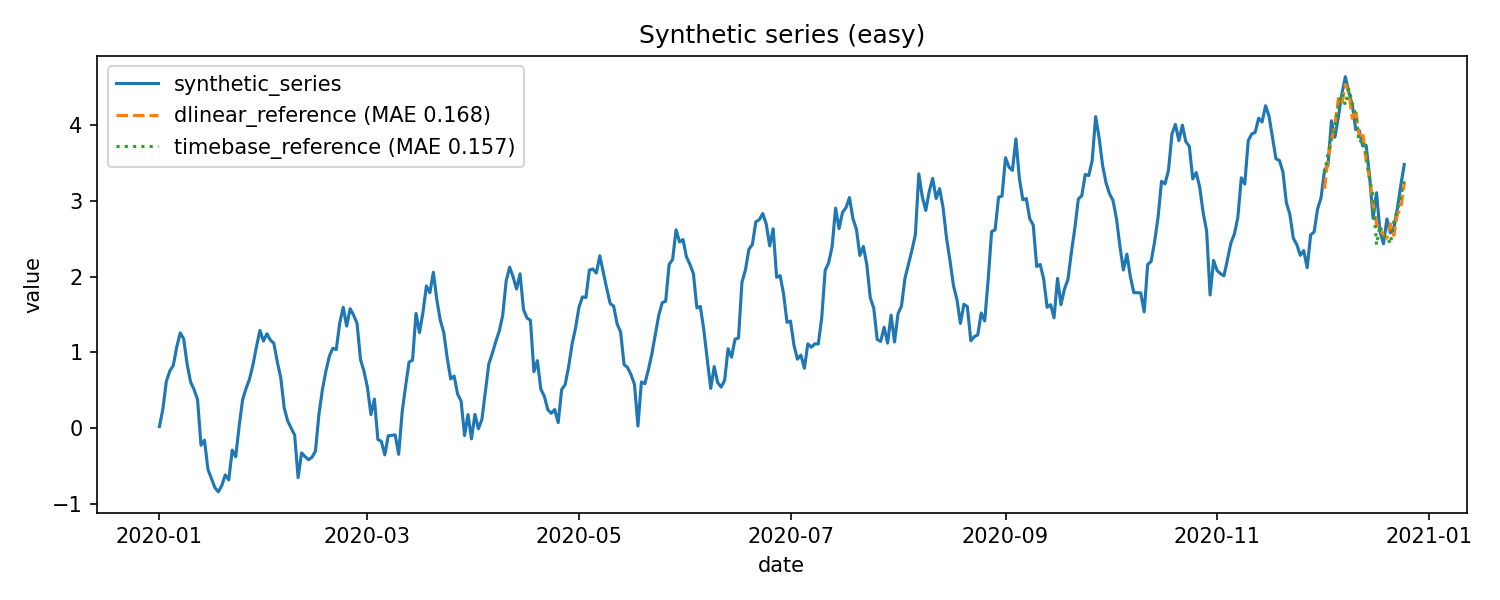
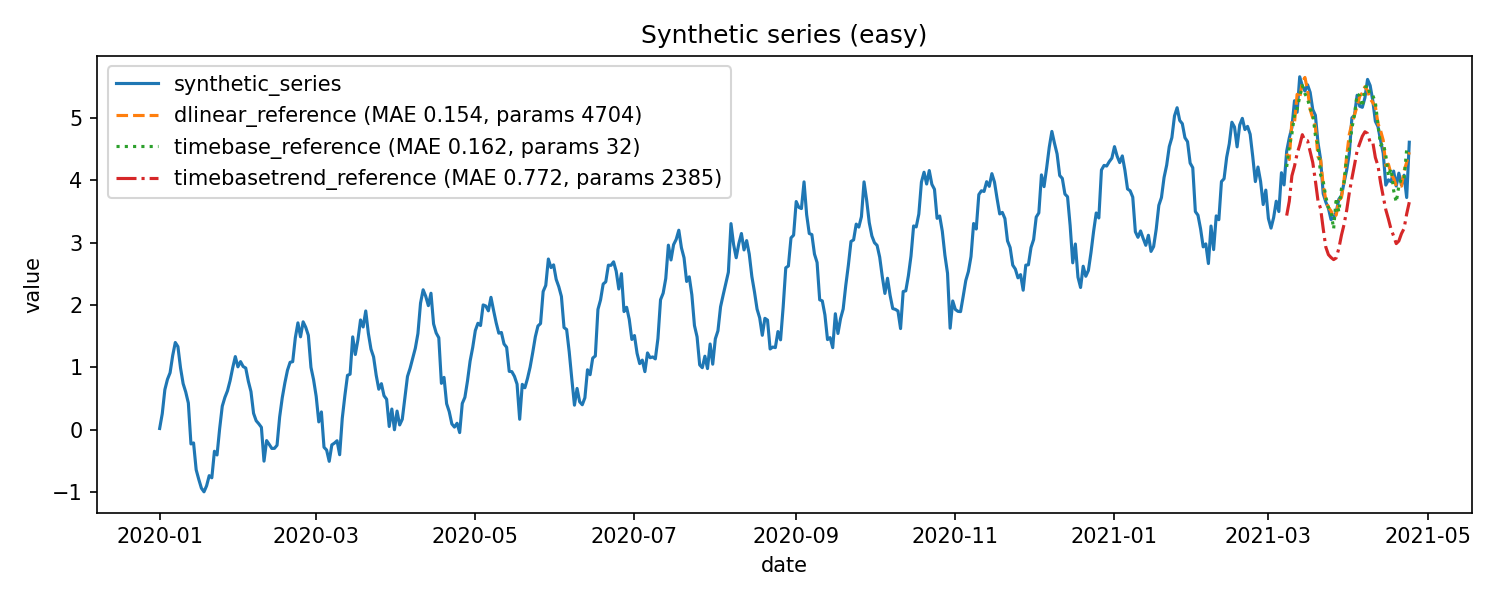
feat(plots): add TimeBaseTrend overlay and params to legend, increase difficulty

diff --git a/scripts/generate_synthetic_plot.py b/scripts/generate_synthetic_plot.py
@@ -9,13 +9,14 @@ from pathlib import Path
 import matplotlib
 import matplotlib.pyplot as plt
 import numpy as np
+import torch
 import typer
 from neuralforecast import NeuralForecast
 from neuralforecast.models import DLinear
 from rich.console import Console
 
 from tests.utils.synthetic_series import make_synthetic_series
-from timebaseula.models.timebase import TimeBase
+from timebaseula.models.timebase import TimeBase, TimeBaseTrend
 
 app = typer.Typer(help="Generate a synthetic series plot for documentation.")
 console = Console()
@@ -38,6 +39,11 @@ def configure_logging() -> logging.Logger:
     handler.setFormatter(formatter)
     logger.addHandler(handler)
     return logger
+
+
+def count_parameters(model: torch.nn.Module) -> int:
+    """Count the number of trainable parameters in a model."""
+    return sum(p.numel() for p in model.parameters() if p.requires_grad)
 
 
 @app.command()
@@ -79,6 +85,10 @@ def main(
         True,
         help="Overlay a TimeBase reference forecast.",
     ),
+    include_timebase_trend: bool = typer.Option(
+        True,
+        help="Overlay a TimeBaseTrend reference forecast.",
+    ),
 ) -> None:
     """Generate and save a synthetic series plot."""
     logger = configure_logging()
@@ -102,7 +112,9 @@ def main(
     output.parent.mkdir(parents=True, exist_ok=True)
 
     forecast_frame = None
-    if (include_reference or include_timebase) and length > forecast_horizon:
+    if (
+        include_reference or include_timebase or include_timebase_trend
+    ) and length > forecast_horizon:
         input_size = min(48, length - forecast_horizon)
         models = []
         if include_reference:
@@ -125,6 +137,18 @@ def main(
                     learning_rate=1e-2,
                 )
             )
+        if include_timebase_trend:
+            models.append(
+                TimeBaseTrend(
+                    h=forecast_horizon,
+                    input_size=input_size,
+                    period_len=24,
+                    basis_num=6,
+                    moving_avg_window=25,
+                    max_steps=200,
+                    learning_rate=1e-2,
+                )
+            )
         nf = NeuralForecast(models=models, freq="D")
         train_frame = frame.iloc[:-forecast_horizon]
         nf.fit(train_frame, val_size=forecast_horizon)
@@ -139,10 +163,13 @@ def main(
             dlinear_mae = float(
                 np.mean(np.abs(target["y"] - dlinear_pred.loc[target.index]))
             )
+            dlinear_params = sum(
+                p.numel() for p in nf.models[0].parameters() if p.requires_grad
+            )
             plt.plot(
                 forecast_frame["ds"],
                 forecast_frame["DLinear"],
-                label=f"dlinear_reference (MAE {dlinear_mae:.3f})",
+                label=f"dlinear (MAE {dlinear_mae:.3f}, {dlinear_params} params)",
                 linestyle="--",
             )
         if "TimeBase" in forecast_frame.columns:
@@ -150,11 +177,47 @@ def main(
             timebase_mae = float(
                 np.mean(np.abs(target["y"] - timebase_pred.loc[target.index]))
             )
+            # Find TimeBase model index
+            timebase_idx = 1 if "DLinear" in forecast_frame.columns else 0
+            timebase_params = sum(
+                p.numel()
+                for p in nf.models[timebase_idx].parameters()
+                if p.requires_grad
+            )
             plt.plot(
                 forecast_frame["ds"],
                 forecast_frame["TimeBase"],
-                label=f"timebase_reference (MAE {timebase_mae:.3f})",
+                label=f"timebase (MAE {timebase_mae:.3f}, {timebase_params} params)",
                 linestyle=":",
+            )
+        if "TimeBaseTrend" in forecast_frame.columns:
+            timebase_trend_pred = forecast_frame.set_index("ds")["TimeBaseTrend"]
+            timebase_trend_mae = float(
+                np.mean(np.abs(target["y"] - timebase_trend_pred.loc[target.index]))
+            )
+            # Find TimeBaseTrend model index
+            model_count = len(
+                [
+                    m
+                    for m in [
+                        include_reference,
+                        include_timebase,
+                        include_timebase_trend,
+                    ]
+                    if m
+                ]
+            )
+            timebase_trend_idx = model_count - 1
+            timebase_trend_params = sum(
+                p.numel()
+                for p in nf.models[timebase_trend_idx].parameters()
+                if p.requires_grad
+            )
+            plt.plot(
+                forecast_frame["ds"],
+                forecast_frame["TimeBaseTrend"],
+                label=f"tbt (MAE {timebase_trend_mae:.3f}, {timebase_trend_params}p)",
+                linestyle="-.",
             )
     plt.title(title)
     plt.xlabel("date")